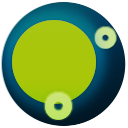
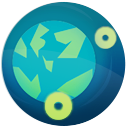
skinned paid version

diff --git a/js/utils/textures.js b/js/utils/textures.js
@@ -6,7 +6,7 @@ Cut.addTexture({
       return Cut.Out.drawing("d_" + d, 20, 10, 10, function(ctx, ratio) {
         ctx.scale(ratio, ratio);
         ctx.font = "bold 8px Arial";
-        ctx.fillStyle = "#7DBD00";
+        ctx.fillStyle = "#72DB37";
         ctx.measureText && this.cropX(ctx.measureText(d).width + 0.8);
         ctx.textBaseline = "top";
         ctx.fillText(d, 0.4, 1);
@@ -16,46 +16,40 @@ Cut.addTexture({
   cutouts : [ Cut.Out.drawing("bg", 100, 100, function(ctx, ratio) {
     ctx.scale(ratio, ratio);
     ctx.rect(0, 0, 100, 100);
-    ctx.fillStyle = "#000";
+    gradient = ctx.createRadialGradient(50, 50, 0, 50, 50, 45);
+    gradient.addColorStop(0.00, "rgb(0, 56, 84)");
+    gradient.addColorStop(1.00, "rgb(0, 31, 62)");
+    ctx.fillStyle = gradient;
     ctx.fill();
 
-  }), Cut.Out.drawing("planet", 15, 15, 10, function(ctx, ratio) {
+  }), Cut.Out.drawing("planet", 20, 20, 10, function(ctx, ratio) {
     ctx.scale(ratio, ratio);
-    ctx.arc(8, 8, 7, 0, 2 * Math.PI);
-    ctx.fillStyle = "#7DBD00";
-    ctx.fill();
+    ctx.drawImage(document.getElementById("planet"), 0, 0, 20, 20);
 
-  }), Cut.Out.drawing("explosion", 15, 15, 10, function(ctx, ratio) {
+  }), Cut.Out.drawing("ring", 23, 23, 10, function(ctx, ratio) {
     ctx.scale(ratio, ratio);
-    ctx.arc(8, 8, 7, 0, 2 * Math.PI);
-    ctx.fillStyle = "#FFAB19";
-    ctx.fill();
+    ctx.drawImage(document.getElementById("ring"), 0, 0, 23, 23);
 
-  }), Cut.Out.drawing("ship", 4, 4, 10, function(ctx, ratio) {
+  }), Cut.Out.drawing("explosion", 16, 16, 10, function(ctx, ratio) {
     ctx.scale(ratio, ratio);
-    ctx.arc(2, 2, 2, 0, 2 * Math.PI, true);
-    ctx.arc(2, 2, 0.7, 0, 2 * Math.PI, false);
-    ctx.fillStyle = "#DCF600";
-    ctx.fill();
+    ctx.drawImage(document.getElementById("explosion"), 0, 0, 16, 16);
+
+  }), Cut.Out.drawing("ship", 5, 5, 10, function(ctx, ratio) {
+    ctx.scale(ratio, ratio);
+    ctx.drawImage(document.getElementById("ship"), 0, 0, 5, 5);
 
   }), Cut.Out.drawing("next", 8, 8, 10, function(ctx, ratio) {
     ctx.scale(ratio, ratio);
-    ctx.arc(4, 4, 3.2, 0, 2 * Math.PI);
-    ctx.lineWidth = 0.3;
-    ctx.strokeStyle = "#fff";
-    ctx.stroke();
+    ctx.drawImage(document.getElementById("next"), 0, 0, 8, 8);
 
-  }), Cut.Out.drawing("asteroid", 4, 4, 10, function(ctx, ratio) {
+  }), Cut.Out.drawing("asteroid", 8, 8, 10, function(ctx, ratio) {
     ctx.scale(ratio, ratio);
-    ctx.arc(2, 2, 2, 0, 2 * Math.PI);
-    ctx.fillStyle = "#C11515";
-    ctx.fill();
+    ctx.drawImage(document.getElementById("invader"), 0, 0, 8, 8);
+    ctx.rotate
 
-  }), Cut.Out.drawing("bullet", 4, 4, 10, function(ctx, ratio) {
+  }), Cut.Out.drawing("bullet", 5, 5, 10, function(ctx, ratio) {
     ctx.scale(ratio, ratio);
-    ctx.arc(2, 2, 1.2, 0, 2 * Math.PI);
-    ctx.fillStyle = "#DCF600";
-    ctx.fill();
+    ctx.drawImage(document.getElementById("bullet"), 0, 0, 5, 5);
 
   }) ]
 });

diff --git a/js/app.js b/js/app.js
@@ -67,6 +67,7 @@ function Game(root) {
   var life = 0, up = 0, down = 0;
 
   var planet = {};
+  var planetRing = Cut.image("base:ring").pin("handle", 0.5).appendTo(root);
 
   var ships = [ uiAddShip(new Ship(11, 2, 0)),
       uiAddShip(new Ship(11, 2, Math.PI / 6 * 4)),
@@ -224,6 +225,13 @@ function Game(root) {
 
   function uiAddAsteroid(obj) {
     obj.ui = Cut.image("base:asteroid").pin("handle", 0.5).appendTo(root);
+    obj.ui.tween(400000).pin({
+      scaleX : 1,
+      scaleY : 1,
+      skewX : 0,
+      skewY : 0,
+      rotation : 360
+    });
     obj.uiRemove = function() {
       this.ui.remove();
     };

diff --git a/index.html b/index.html
@@ -7,6 +7,16 @@
   <link href="css/style.css" rel="stylesheet" />
   
 </head><body class="dark">
+
+<div id="images">
+  <img src="images/planet.png" id="planet">
+  <img src="images/next.png" id="next">
+  <img src="images/ship.png" id="ship">
+  <img src="images/bullet.png" id="bullet">
+  <img src="images/explosion.png" id="explosion">
+  <img src="images/invader.png" id="invader">
+  <img src="images/ring.png" id="ring">
+</div>
    
   <script src="js/lib/cut-core.js"></script>
   <script src="js/lib/cut-mouse.js"></script>

diff --git a/css/style.css b/css/style.css
@@ -13,3 +13,7 @@ body,html {
 body {
 	overflow: hidden;
 }
+
+#images {
+	display: none;
+}
